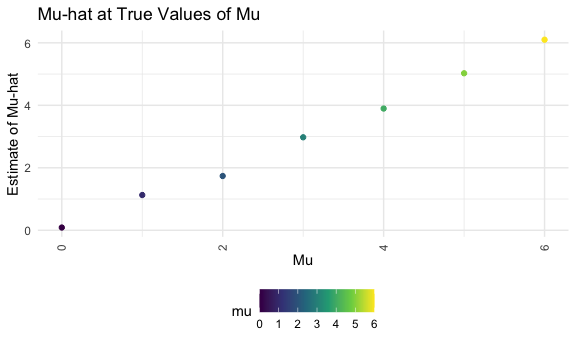
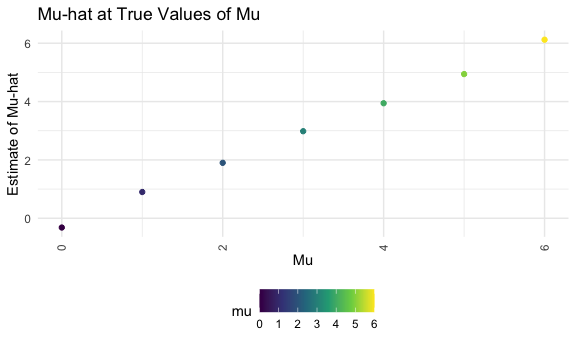
Final commit

diff --git a/p8105_hw5_ag2965.md b/p8105_hw5_ag2965.md
@@ -3,6 +3,8 @@ p8105_hw5_ag2965
 Aakriti Shukla
 2022-11-07
 
+Due date: November 16, 2022
+
 \#Problem 1 First, we loaded the data and joined the individual files
 using the list.files and str_c() functions. We then iterated over file
 names and read in the data for each subject.
@@ -242,8 +244,9 @@ labs(x = "Week", y= "Outcome") +
 
 <img src="p8105_hw5_ag2965_files/figure-gfm/unnamed-chunk-4-1.png" width="90%" />
 
-\#Problem 2 Homicide data in 50 large U.S. cities - The Washington Post
-data
+\#Problem 2
+
+Homicide data in 50 large U.S. cities - The Washington Post data
 
 Let’s load the data.
 
@@ -283,6 +286,9 @@ of “Closed by arrest” or “Open/No arrest”.
 unsolved_homicides=homicides_df%>%
   janitor::clean_names()%>%
     unite(city_state, c(city, state), sep = ", ")%>%
+    mutate(
+      city_state=case_when(city_state=="Tulsa, AL" ~ "Tulsa, OK", TRUE~city_state)
+    )%>%
     group_by(city_state)%>%
     summarize(
       unsolved=sum(disposition=="Closed by arrest" | disposition=="Open/No arrest"),
@@ -342,8 +348,7 @@ unsolved_homicides%>%
 | St. Louis, MO      |     1637 |  1677 |
 | Stockton, CA       |      433 |   444 |
 | Tampa, FL          |      200 |   208 |
-| Tulsa, AL          |        1 |     1 |
-| Tulsa, OK          |      528 |   583 |
+| Tulsa, OK          |      529 |   584 |
 | Washington, DC     |     1271 |  1345 |
 
 We then created a dataframe for homicides in Baltimore and used the
@@ -383,9 +388,10 @@ We then used this function to for each of the cities in the dataset and
 extracted the proportion of unsolved homicides and the confidence
 interval for each using the purrr::map2 function. We also creatd a plot
 that shows the estimates and CIs for each city along with error bars.
-Tulsa, AL has a long error bar as there is only 1 observation. This plot
-shows us that the great majority of homicides are unsolved in all
-locations.
+This plot shows us that the great majority of homicides are unsolved in
+all locations. The lowest proportion of unsolved homicides were in
+Denver, San Diego, and Albuquerque, and the highest were in Louisville,
+Oakland, and Pittsburgh.
 
 ``` r
 unsolved_cities=unsolved_homicides%>%
@@ -398,7 +404,7 @@ unsolved_cities=unsolved_homicides%>%
 unsolved_cities
 ```
 
-    ## # A tibble: 51 × 6
+    ## # A tibble: 50 × 6
     ##    city_state      unsolved total estimate conf.low conf.high
     ##    <chr>              <int> <int>    <dbl>    <dbl>     <dbl>
     ##  1 Albuquerque, NM      326   378    0.862    0.823     0.895
@@ -411,7 +417,7 @@ unsolved_cities
     ##  8 Charlotte, NC        643   687    0.936    0.914     0.953
     ##  9 Chicago, IL         5148  5535    0.930    0.923     0.937
     ## 10 Cincinnati, OH       645   694    0.929    0.907     0.947
-    ## # … with 41 more rows
+    ## # … with 40 more rows
 
 ``` r
   ggplot(data=unsolved_cities, aes(x = fct_reorder(city_state, estimate), y = estimate)) +
@@ -490,7 +496,7 @@ generate_results()
     ## # A tibble: 1 × 4
     ##     tot tot_rej prop_rej avg_mu_hat
     ##   <int>   <int>    <dbl>      <dbl>
-    ## 1    50       2     0.04    0.00740
+    ## 1    50       4     0.08    -0.0800
 
 ``` r
 new_tib =
@@ -530,21 +536,14 @@ mu_hat_estimate=new_tib%>%
 labs(x = "Mu", y= "Estimate of Mu-hat") +
   theme(axis.text.x = element_text(angle = 90, vjust = 0.5, hjust=1))+
     ggtitle("Mu-hat at True Values of Mu")
-
-mu_hat_estimate
 ```
 
-<img src="p8105_hw5_ag2965_files/figure-gfm/unnamed-chunk-12-1.png" width="90%" />
-Make a second plot (or overlay on the first) the average estimate of μ̂
-only in samples for which the null was rejected on the y axis and the
-true value of μ on the x axis. Is the sample average of μ̂ across tests
-for which the null is rejected approximately equal to the true value of
-μ? Why or why not?
-
-The sample average of mu-hat for across tests for which the null
-hypothesis is rejected is not approximately equal to the true value of
-mu because these samples were sufficiently different than mu, allowing
-for the rejection of the null hypothesis.
+We then made a second plot with the average estimate of μ̂ only in
+samples for which the null was rejected on the y axis and the true value
+of μ on the x axis. The sample average of mu-hat for across tests for
+which the null hypothesis is rejected is not equal to the true value of
+mu because these samples were sufficiently different than mu, as this
+incldued only those values in which the null hypothesis was rejected.
 
 ``` r
 t_test_clean = function(df){
@@ -617,14 +616,8 @@ rejected = new_tib_rej %>%
   theme(axis.text.x = element_text(angle = 90, vjust = 0.5, hjust=1))+
     ggtitle("Mu-hat at Mu for Rejected Cases")
 
-rejected
-```
-
-<img src="p8105_hw5_ag2965_files/figure-gfm/unnamed-chunk-14-1.png" width="90%" />
-
-``` r
 library(patchwork)
 mu_hat_estimate + rejected
 ```
 
-<img src="p8105_hw5_ag2965_files/figure-gfm/unnamed-chunk-14-2.png" width="90%" />
+<img src="p8105_hw5_ag2965_files/figure-gfm/unnamed-chunk-14-1.png" width="90%" />
